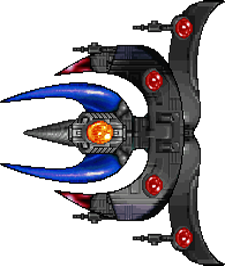
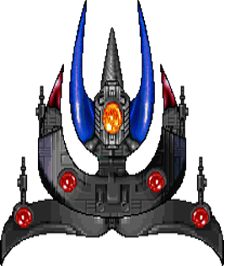
fixing boss

diff --git a/level2.js b/level2.js
@@ -17,6 +17,7 @@ var Level2 = {
         game.load.image('bullet', 'assets/bullets/bullet.png');
         game.load.image('laser-beam', 'assets/bullets/bullet.png');
         game.load.image('second_enemy_bullet', 'assets/bullets/bullet1.png');
+        game.load.image('boss_bullet', 'assets/bullets/bullet2.png');
 
         //background music
         game.load.audio('level2background', 'assets/sounds/music/level5.ogg');
@@ -194,7 +195,7 @@ var Level2 = {
         secondEnemy.setAll('anchor.y', 0.5);
         secondEnemy.setAll('scale.x', 0.5);
         secondEnemy.setAll('scale.y', 0.5);
-        secondEnemy.setAll('angle', 180);
+        secondEnemy.setAll('angle', 0);
         secondEnemy.forEach(function(enemy){
             enemy.damageAmount = 30;
         });
